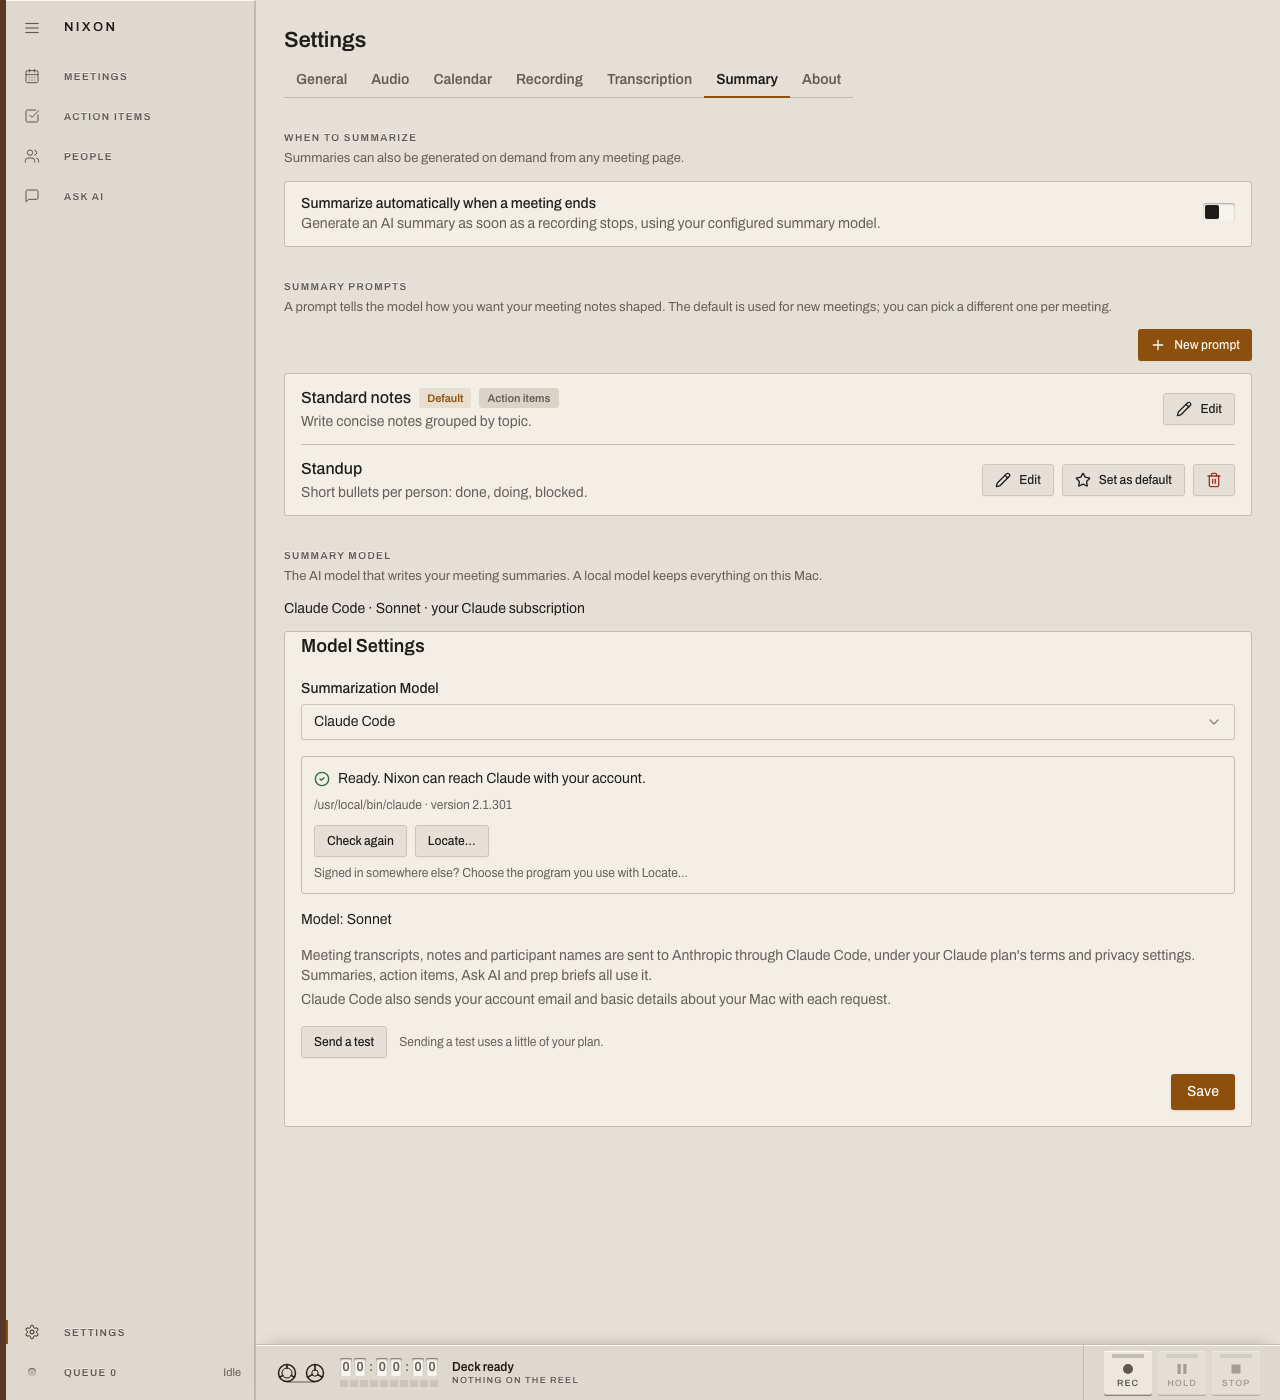
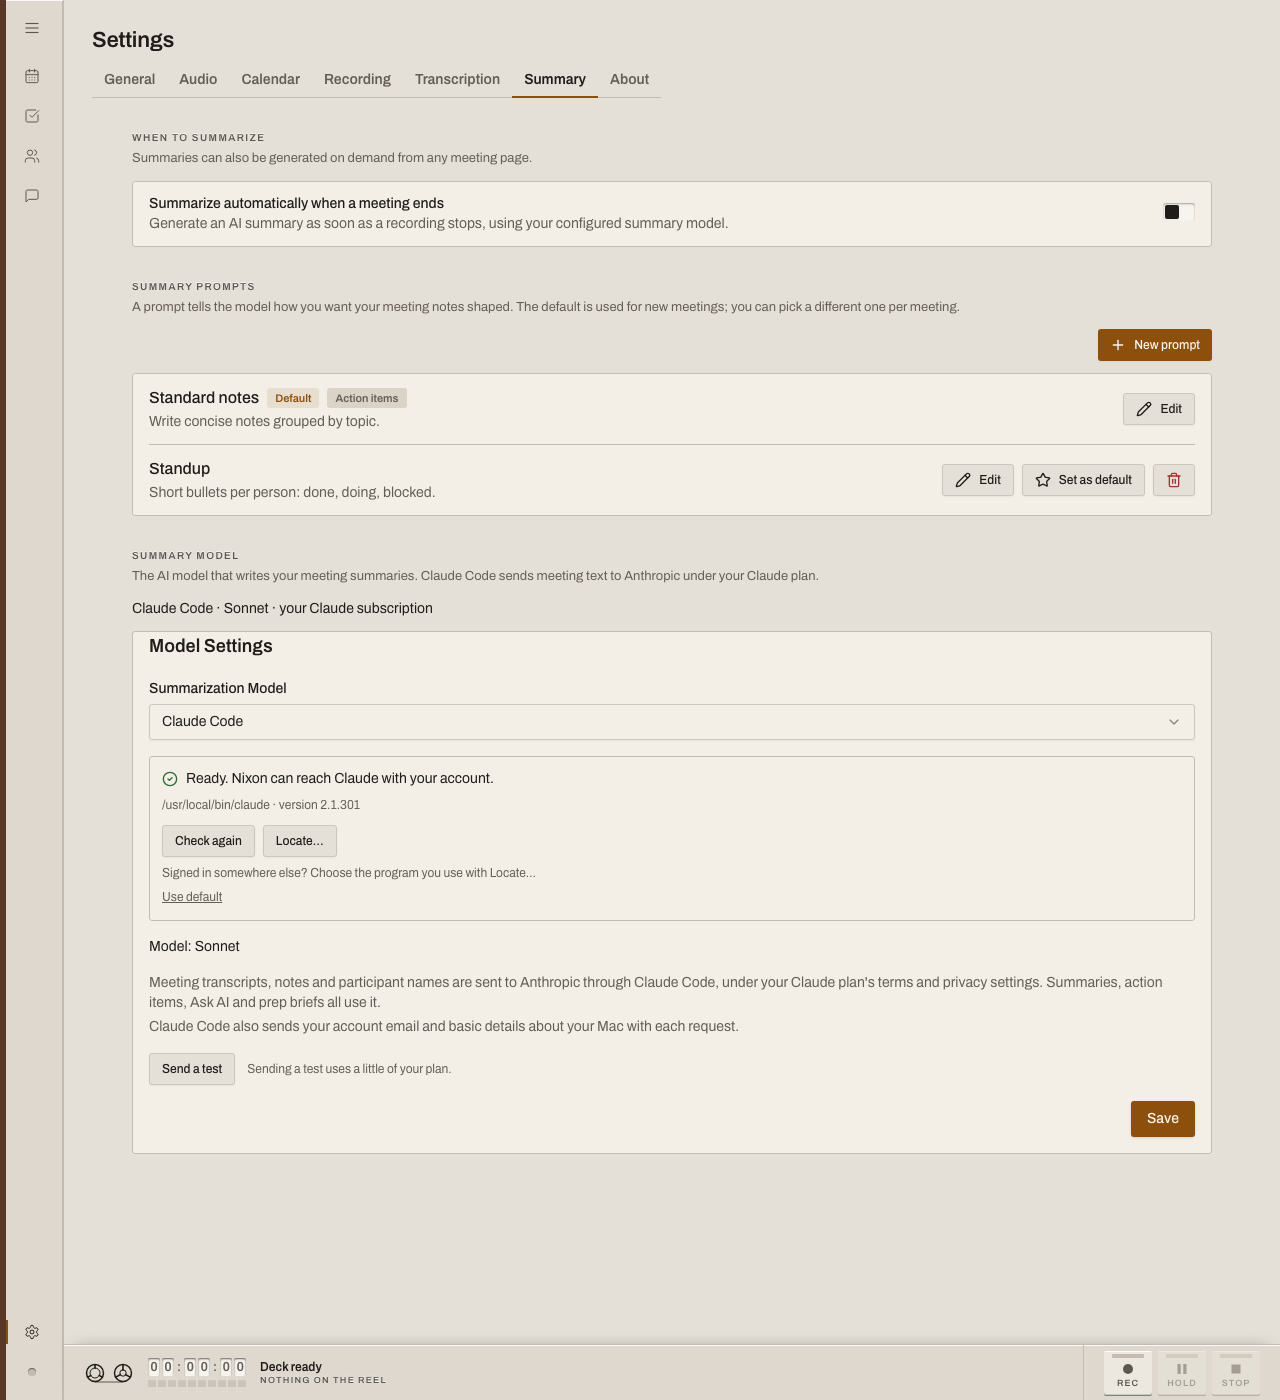
Use a native file picker for Locate and fix the CLI summary blurb (specs/0085)
Locate... now opens the system file chooser through a new
api_cli_provider_pick_binary command and validates the choice with the
existing set_path; Use default clears the override. The Summary model
description no longer claims everything stays on this Mac when Claude Code
is the provider.

diff --git a/frontend/src/components/CliProviderPanel.tsx b/frontend/src/components/CliProviderPanel.tsx
@@ -14,8 +14,6 @@ import { invoke } from '@tauri-apps/api/core';
 import * as SelectPrimitive from '@radix-ui/react-select';
 import { AlertTriangle, CheckCircle2, Loader2, XCircle } from 'lucide-react';
 import { Button } from '@/components/ui/button';
-import { Input } from '@/components/ui/input';
-import { Label } from '@/components/ui/label';
 import {
   Dialog,
   DialogContent,
@@ -186,8 +184,6 @@ function ClaudeCodePanel({ onSave }: { onSave: () => void }) {
   const { statuses, setStatuses, error, checking, refresh } = useCliStatuses();
   const status = statuses?.find((s) => s.id === 'claude-code') ?? null;
 
-  const [locating, setLocating] = useState(false);
-  const [pathInput, setPathInput] = useState('');
   const [pathError, setPathError] = useState<string | null>(null);
   const [applyingPath, setApplyingPath] = useState(false);
   const [testing, setTesting] = useState(false);
@@ -204,12 +200,21 @@ function ClaudeCodePanel({ onSave }: { onSave: () => void }) {
     try {
       const next = await invoke<CliProviderStatus>('api_cli_provider_set_path', { id: 'claude-code', path });
       setStatuses([next]);
-      setLocating(false);
-      setPathInput('');
     } catch (e) {
       setPathError(errText(e));
     } finally {
       setApplyingPath(false);
+    }
+  };
+
+  // Locate…: the native file chooser picks, set_path validates and saves. A cancel is not an error.
+  const locate = async () => {
+    setPathError(null);
+    try {
+      const picked = await invoke<string | null>('api_cli_provider_pick_binary');
+      if (picked) await applyPath(picked);
+    } catch (e) {
+      setPathError(errText(e));
     }
   };
 
@@ -265,7 +270,8 @@ function ClaudeCodePanel({ onSave }: { onSave: () => void }) {
           <Button type="button" variant="outline" size="sm" onClick={() => void refresh()} disabled={checking}>
             {checking ? 'Checking…' : 'Check again'}
           </Button>
-          <Button type="button" variant="outline" size="sm" onClick={() => setLocating((v) => !v)}>
+          <Button type="button" variant="outline" size="sm" onClick={() => void locate()}
+            disabled={applyingPath}>
             Locate…
           </Button>
           {showInstall && (
@@ -282,35 +288,15 @@ function ClaudeCodePanel({ onSave }: { onSave: () => void }) {
         <p className="text-xs text-muted-foreground">
           Signed in somewhere else? Choose the program you use with Locate…
         </p>
-        {locating && (
-          <div className="space-y-2 pt-1">
-            <Label htmlFor="cli-claude-path">Path to the claude program</Label>
-            <div className="flex gap-2">
-              <Input
-                id="cli-claude-path"
-                value={pathInput}
-                onChange={(e) => setPathInput(e.target.value)}
-                placeholder="/opt/homebrew/bin/claude"
-              />
-              <Button
-                type="button"
-                size="sm"
-                onClick={() => void applyPath(pathInput.trim())}
-                disabled={applyingPath || !pathInput.trim()}
-              >
-                Use this program
-              </Button>
-            </div>
-            {status?.path && (
-              <button
-                type="button"
-                className="text-xs text-muted-foreground underline"
-                onClick={() => void applyPath(null)}
-              >
-                Go back to the one Nixon finds
-              </button>
-            )}
-          </div>
+        {status?.path && (
+          <button
+            type="button"
+            className="text-xs text-muted-foreground underline"
+            onClick={() => void applyPath(null)}
+            disabled={applyingPath}
+          >
+            Use default
+          </button>
         )}
         {pathError && <p className="text-sm text-record">{pathError}</p>}
       </div>

diff --git a/frontend/src/components/__tests__/CliProviderPanel.test.tsx b/frontend/src/components/__tests__/CliProviderPanel.test.tsx
@@ -114,34 +114,50 @@ describe('CliProviderPanel (specs/0085)', () => {
     expect(calls('api_cli_providers_status')).toHaveLength(2);
   });
 
-  it('Locate saves a chosen program and shows a rejection inline', async () => {
+  it('Locate opens the native picker, saves the chosen program, and shows a rejection inline', async () => {
     arrange({ ...BASE, state: 'notFound' }, {
+      api_cli_provider_pick_binary: '/opt/tools/not-claude',
       api_cli_provider_set_path: () =>
         Promise.reject("That file can't be run as Claude Code. Choose the `claude` program itself."),
     });
     render(<CliProviderPanel provider="claude-code" onSave={vi.fn()} />);
 
     fireEvent.click(await screen.findByRole('button', { name: /Locate/ }));
-    fireEvent.change(screen.getByLabelText(/Path to the claude program/), {
-      target: { value: '/opt/tools/not-claude' },
-    });
-    fireEvent.click(screen.getByRole('button', { name: 'Use this program' }));
 
     expect(await screen.findByText(/can't be run as Claude Code/)).toBeInTheDocument();
+    expect(calls('api_cli_provider_pick_binary')).toHaveLength(1);
     expect(calls('api_cli_provider_set_path')[0][1]).toEqual({ id: 'claude-code', path: '/opt/tools/not-claude' });
   });
 
   it('Locate adopts the returned status on success', async () => {
-    arrange({ ...BASE, state: 'notFound' }, { api_cli_provider_set_path: READY });
+    arrange({ ...BASE, state: 'notFound' }, {
+      api_cli_provider_pick_binary: '/usr/local/bin/claude',
+      api_cli_provider_set_path: READY,
+    });
     render(<CliProviderPanel provider="claude-code" onSave={vi.fn()} />);
 
     fireEvent.click(await screen.findByRole('button', { name: /Locate/ }));
-    fireEvent.change(screen.getByLabelText(/Path to the claude program/), {
-      target: { value: '/usr/local/bin/claude' },
-    });
-    fireEvent.click(screen.getByRole('button', { name: 'Use this program' }));
 
     await waitFor(() => expect(screen.getByRole('button', { name: 'Save' })).toBeEnabled());
+  });
+
+  it('cancelling the picker changes nothing', async () => {
+    arrange({ ...BASE, state: 'notFound' }, { api_cli_provider_pick_binary: null });
+    render(<CliProviderPanel provider="claude-code" onSave={vi.fn()} />);
+
+    fireEvent.click(await screen.findByRole('button', { name: /Locate/ }));
+    await waitFor(() => expect(calls('api_cli_provider_pick_binary')).toHaveLength(1));
+    expect(calls('api_cli_provider_set_path')).toHaveLength(0);
+  });
+
+  it('Use default clears a saved location', async () => {
+    arrange(READY, { api_cli_provider_set_path: READY });
+    render(<CliProviderPanel provider="claude-code" onSave={vi.fn()} />);
+
+    fireEvent.click(await screen.findByRole('button', { name: /Use default/ }));
+
+    await waitFor(() => expect(calls('api_cli_provider_set_path')).toHaveLength(1));
+    expect(calls('api_cli_provider_set_path')[0][1]).toEqual({ id: 'claude-code', path: null });
   });
 
   it('Send a test reports the result and says it uses a little of the plan', async () => {

diff --git a/frontend/src/components/__tests__/SummaryModelSection.test.tsx b/frontend/src/components/__tests__/SummaryModelSection.test.tsx
@@ -121,4 +121,22 @@ describe('Summary model — resolved, and last on the tab (specs/0067)', () => {
     expect(screen.getByTestId('model-picker')).toBeInTheDocument();
     expect(container.textContent).not.toMatch(/recommended/i);
   });
+
+  it('does not say a local model keeps everything on this Mac when Claude Code is chosen', async () => {
+    arrange({ provider: 'claude-code', model: 'sonnet' });
+    const { container } = render(<SummaryModelSection />);
+
+    await screen.findByTestId('cli-resolved');
+    expect(container.textContent).toContain(
+      'The AI model that writes your meeting summaries. Claude Code sends meeting text to Anthropic under your Claude plan.',
+    );
+    expect(container.textContent).not.toMatch(/keeps everything on this Mac/);
+  });
+
+  it('keeps the local-model blurb for other providers', async () => {
+    arrange({ provider: 'builtin-ai', model: 'qwen3.5:4b' });
+    const { container } = render(<SummaryModelSection />);
+    await screen.findByTestId('resolved-value');
+    expect(container.textContent).toMatch(/A local model keeps everything on this Mac/);
+  });
 });

diff --git a/frontend/src/components/SummaryModelSection.tsx b/frontend/src/components/SummaryModelSection.tsx
@@ -139,7 +139,11 @@ export function SummaryModelSection({ refetchTrigger }: SummaryModelSectionProps
   return (
       <SettingsSection
         title="Summary model"
-        description="The AI model that writes your meeting summaries. A local model keeps everything on this Mac."
+        description={
+          isCliProvider(modelConfig.provider)
+            ? 'The AI model that writes your meeting summaries. Claude Code sends meeting text to Anthropic under your Claude plan.'
+            : 'The AI model that writes your meeting summaries. A local model keeps everything on this Mac.'
+        }
       >
         {isCliProvider(modelConfig.provider) && (
           // specs/0085: a subscription CLI is a choice the user made, never Nixon's pick, so

diff --git a/frontend/scripts/shots/tauri-mock.js b/frontend/scripts/shots/tauri-mock.js
@@ -646,6 +646,7 @@
       },
     ],
     api_cli_provider_set_path: () => Promise.reject('Not available in the screenshot mock.'),
+    api_cli_provider_pick_binary: () => null,
     api_cli_provider_test: () => ({ ok: true, latencyMs: 1800 }),
     // database/commands.rs `api_get_model_config`: only the cli= routes pin an answer
     // (provider 'claude-code'); everywhere else keeps the generic fallback its baseline

diff --git a/frontend/src-tauri/src/cli_llm/commands.rs b/frontend/src-tauri/src/cli_llm/commands.rs
@@ -12,7 +12,7 @@ use crate::state::AppState;
 use serde::Serialize;
 use std::path::PathBuf;
 use std::time::Instant;
-use tauri::State;
+use tauri::{AppHandle, State};
 
 /// The providers Settings lists. Codex joins in W2, when its adapter lands.
 const LISTED: [CliKind; 1] = [CliKind::ClaudeCode];
@@ -198,6 +198,21 @@ pub async fn api_cli_provider_set_path(
         .await
         .map_err(|e| format!("Couldn't save that location: {e}"))?;
     Ok(probe_status(pool, kind).await)
+}
+
+/// Locate...: opens the native file chooser and returns the chosen program's absolute path,
+/// or `None` if the user cancelled. It only picks; `api_cli_provider_set_path` validates.
+#[tauri::command]
+pub async fn api_cli_provider_pick_binary(app: AppHandle) -> Result<Option<String>, String> {
+    use tauri_plugin_dialog::DialogExt;
+
+    // blocking_pick_file is a synchronous native dialog: keep it off the async executor.
+    let picked = tokio::task::spawn_blocking(move || app.dialog().file().blocking_pick_file())
+        .await
+        .map_err(|e| format!("File picker task panicked: {e}"))?;
+    Ok(picked
+        .and_then(|p| p.into_path().ok())
+        .map(|p| p.to_string_lossy().into_owned()))
 }
 
 /// The Test button: one real, user-initiated call through the full runner + isolation

diff --git a/frontend/src-tauri/src/registry.rs b/frontend/src-tauri/src/registry.rs
@@ -146,6 +146,7 @@ pub fn invoke_handler() -> impl Fn(tauri::ipc::Invoke<tauri::Wry>) -> bool + Sen
         // Subscription CLI providers: detection, Locate... override, Test (specs/0085)
         cli_llm::commands::api_cli_providers_status,
         cli_llm::commands::api_cli_provider_set_path,
+        cli_llm::commands::api_cli_provider_pick_binary,
         cli_llm::commands::api_cli_provider_test,
         settings::custom_openai::api_test_custom_openai_connection,
         // Summary commands
